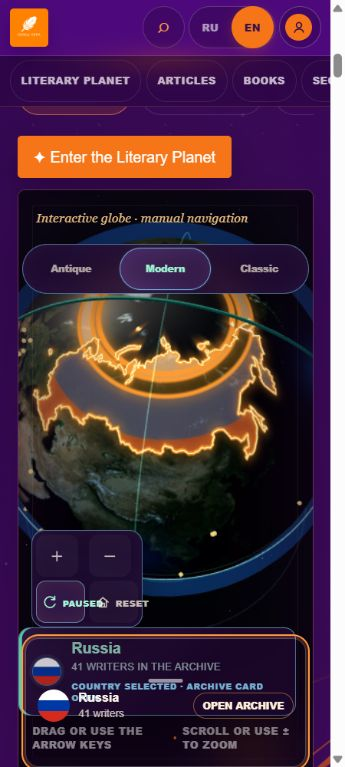
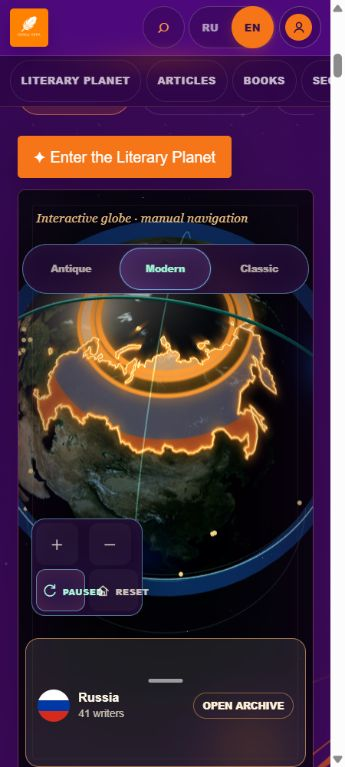
fix(globe): stabilize Stage 4 release gates

diff --git a/src/components/GlobeCameraRig.tsx b/src/components/GlobeCameraRig.tsx
@@ -129,7 +129,7 @@ type ActiveFlight = {
   token: number;
   source: GlobeProgrammaticCameraSource;
   intent: GlobeCameraFocusIntent;
-  startedAt: number;
+  startedAt: number | null;
   durationMs: number;
   trajectory: GlobeCameraTrajectory;
 };
@@ -410,7 +410,10 @@ export default function GlobeCameraRig({
         token: ++flightTokenRef.current,
         source: globeCameraMotionSourceForIntent(intent),
         intent,
-        startedAt: performance.now(),
+        // Start the clock on the first frame that can actually render the
+        // flight. A busy main thread must not consume the whole animation
+        // before the user has had a chance to interrupt it.
+        startedAt: null,
         durationMs,
         trajectory,
       };
@@ -622,7 +625,9 @@ export default function GlobeCameraRig({
 
     const flight = flightRef.current;
     if (flight) {
-      const elapsed = performance.now() - flight.startedAt;
+      const frameTime = performance.now();
+      if (flight.startedAt === null) flight.startedAt = frameTime;
+      const elapsed = frameTime - flight.startedAt;
       const progress = THREE.MathUtils.clamp(elapsed / flight.durationMs, 0, 1);
       const sample = sampleCameraTrajectory(flight.trajectory, progress);
       camera.up.set(0, 1, 0);
@@ -653,6 +658,11 @@ export default function GlobeCameraRig({
         performance.now() - settling.startedAt >= SETTLE_TIMEOUT_MS
       ) {
         settlingRef.current = null;
+        // OrbitControls retains a tiny spherical delta while damping is on.
+        // Flush that residue once before returning to demand rendering so an
+        // idle globe cannot keep invalidating frames indefinitely.
+        controls.enableDamping = false;
+        controls.update();
         syncRestingControls();
         emitViewSettled(settling.source);
       } else {

diff --git a/src/components/atlasBackgroundLayering.test.ts b/src/components/atlasBackgroundLayering.test.ts
@@ -3,6 +3,11 @@ import { describe, expect, it } from "vitest";
 
 const css = readFileSync(new URL("../index.css", import.meta.url), "utf8");
 
+function cssRule(selector: string) {
+  const escaped = selector.replace(/[.*+?^${}()|[\]\\]/g, "\\$&");
+  return css.match(new RegExp(`${escaped}\\s*\\{([^}]*)\\}`, "u"))?.[1] ?? "";
+}
+
 describe("literary planet background layering", () => {
   it("keeps the branded brush behind the isolated WebGL experience", () => {
     expect(css).toMatch(
@@ -22,5 +27,31 @@ describe("literary planet background layering", () => {
     expect(brushRule).toContain("height: clamp(220px, 24vw, 390px)");
     expect(brushRule).toContain("center bottom");
     expect(brushRule).not.toContain("inset: 0");
+  });
+
+  it("hides duplicate globe labels beneath the open mobile country sheet", () => {
+    const mobileSheetOcclusionRule = css.match(
+      /\.atlas-experience-surface\[data-atlas-panel-state="open"\] \.literary-globe \.globe-country-label,\s*\.atlas-experience-surface\[data-atlas-panel-state="open"\] \.literary-globe \.globe-instruction\s*\{([^}]*)\}/u
+    )?.[1] ?? "";
+
+    expect(mobileSheetOcclusionRule).toContain("display: none");
+  });
+
+  it("keeps touch and zoom controls clear of every mobile country-sheet state", () => {
+    const clearance = "max(24px, env(safe-area-inset-bottom))";
+
+    for (const state of ["collapsed", "half", "expanded"]) {
+      expect(
+        cssRule(
+          `.atlas-experience-surface[data-atlas-panel-state="open"][data-atlas-sheet-state="${state}"] .globe-touch-activation`
+        )
+      ).toContain(clearance);
+    }
+
+    expect(
+      cssRule(
+        '.atlas-experience-surface[data-atlas-panel-state="open"][data-atlas-sheet-state="collapsed"] .literary-globe .globe-controls'
+      )
+    ).toContain(clearance);
   });
 });

diff --git a/src/index.css b/src/index.css
@@ -18355,6 +18355,11 @@ html[data-theme="book"] .calendar-heading h3 {
     width: auto;
   }
 
+  .atlas-experience-surface[data-atlas-panel-state="open"] .literary-globe .globe-country-label,
+  .atlas-experience-surface[data-atlas-panel-state="open"] .literary-globe .globe-instruction {
+    display: none;
+  }
+
   .literary-globe .globe-nobel-status {
     top: 116px;
     right: 14px;
@@ -18374,17 +18379,17 @@ html[data-theme="book"] .calendar-heading h3 {
 
   .atlas-experience-surface[data-atlas-panel-state="open"][data-atlas-sheet-state="collapsed"] .globe-touch-activation {
     z-index: 44;
-    bottom: calc(142px + max(12px, env(safe-area-inset-bottom)));
+    bottom: calc(142px + max(24px, env(safe-area-inset-bottom)));
   }
 
   .atlas-experience-surface[data-atlas-panel-state="open"][data-atlas-sheet-state="half"] .globe-touch-activation {
     z-index: 44;
-    bottom: calc(min(46dvh, 460px) + max(12px, env(safe-area-inset-bottom)));
+    bottom: calc(min(46dvh, 460px) + max(24px, env(safe-area-inset-bottom)));
   }
 
   .atlas-experience-surface[data-atlas-panel-state="open"][data-atlas-sheet-state="expanded"] .globe-touch-activation {
     z-index: 44;
-    bottom: calc(min(70dvh, 660px) + max(12px, env(safe-area-inset-bottom)));
+    bottom: calc(min(70dvh, 660px) + max(24px, env(safe-area-inset-bottom)));
   }
 
   .atlas-experience-surface .atlas-country-sheet-toggle {
@@ -18543,7 +18548,7 @@ html[data-theme="book"] .calendar-heading h3 {
 
 @media (max-width: 680px) {
   .atlas-experience-surface[data-atlas-panel-state="open"][data-atlas-sheet-state="collapsed"] .literary-globe .globe-controls {
-    bottom: calc(142px + max(12px, env(safe-area-inset-bottom)));
+    bottom: calc(142px + max(24px, env(safe-area-inset-bottom)));
   }
 }
 

diff --git a/src/components/GlobeCameraRig.test.tsx b/src/components/GlobeCameraRig.test.tsx
@@ -167,6 +167,26 @@ describe("GlobeCameraRig contract", () => {
     expect(source).toContain("enabled={active && interactionEnabled}");
   });
 
+  it("starts flight time on its first rendered frame and clears damping residue", () => {
+    const source = readFileSync(
+      new URL("./GlobeCameraRig.tsx", import.meta.url),
+      "utf8"
+    );
+
+    expect(source).toContain("startedAt: null");
+    expect(source).toContain(
+      "if (flight.startedAt === null) flight.startedAt = frameTime"
+    );
+    const settlingLoop = source.slice(
+      source.indexOf("const settling ="),
+      source.indexOf("if (controls.autoRotate) invalidate()")
+    );
+    expect(settlingLoop).toContain("controls.enableDamping = false");
+    expect(settlingLoop.indexOf("controls.enableDamping = false")).toBeLessThan(
+      settlingLoop.indexOf("syncRestingControls();")
+    );
+  });
+
   it("issues one atomic country intent per selection, including same-country refocus", () => {
     const appSource = readFileSync(new URL("../App.tsx", import.meta.url), "utf8");
     const selectCountrySource = appSource.slice(

diff --git a/reports/stage4-premium-globe-exploration-pr.md b/reports/stage4-premium-globe-exploration-pr.md
@@ -1,6 +1,6 @@
 # feat(globe): complete premium Literary Planet exploration
 
-> Stage 4 implementation is complete in source. Frozen V11 targeted, performance, visual and local E2E evidence is recorded below. One pre-existing Windows-only CRLF unit failure requires confirmation by green Linux CI before merge. Automatic merge is forbidden.
+> Stage 4 implementation is complete in source. Frozen V11 visual evidence and the final post-CI-fix targeted, performance and local E2E evidence are recorded below. One pre-existing Windows-only CRLF unit failure requires confirmation by green Linux CI before merge. Automatic merge is forbidden.
 
 ## 1. Summary
 
@@ -38,7 +38,7 @@ Existing Stage 3 identity/history suites remain present and the Stage 4 runtime 
 
 The implementation addresses the measured work categories rather than lowering normal visual quality: duplicate surface raycast, dynamic highlight mipmaps/uploads, mass flag preload, synchronous focus-metric work, perpetual idle frames and duplicate renderer sizing.
 
-Frozen V11 measurements: production artifact `114,079,071 / 114,819,072` bytes (headroom `740,001`); excluding book covers `74,503,905 / 75,497,472` (headroom `993,567`); `4323` production files. Runtime probes recorded passive texture uploads `0`, offscreen frames `0` and an Auto OFF frame-counter plateau. Retina DPR `1.5` retained the full 4096×2048 texture tier; compact mobile selected the dedicated 2048×1024 tier.
+Final post-CI-fix measurements: production artifact `114,079,331 / 114,819,072` bytes (headroom `739,741`); excluding book covers `74,504,165 / 75,497,472` (headroom `993,307`); `4323` production files. Runtime probes recorded passive texture uploads `0`, offscreen frames `0` and an Auto OFF frame-counter plateau. Retina DPR `1.5` retained the full 4096×2048 texture tier; compact mobile selected the dedicated 2048×1024 tier.
 
 ## 6. Camera architecture
 
@@ -216,37 +216,41 @@ Normal mode keeps configured DPR, high-detail sphere, static texture mipmaps/ani
 | Auto OFF idle | perpetual frames | `demand` | policy unit + E2E |
 | Resize / Canvas count | competing resize risk | one R3F owner / one Canvas | source + identity E2E |
 | Mobile/Retina texture runtime | single quality statement unavailable | mobile 2048×1024 tier; Retina DPR `1.5` full 4096×2048 tier; economical flag did not replace normal inspected quality | runtime probe + visual registry |
-| Production artifact / main JS / CSS / globe chunk | Stage 3 artifact audit `114,028,640` bytes | `114,079,071 / 114,819,072` total; main `629,468`, CSS `324,101`, globe `92,442` bytes | frozen V11 build + performance audit |
+| Production artifact / main JS / CSS / globe chunk | Stage 3 artifact audit `114,028,640` bytes | `114,079,331 / 114,819,072` total; main `629,468`, CSS `324,296`, globe `92,507` bytes | final post-CI-fix build + performance audit |
 
-Frozen V11 performance details:
+Final post-CI-fix performance details:
 
-- total: `114,079,071 / 114,819,072` bytes; headroom `740,001`;
-- excluding book covers: `74,503,905 / 75,497,472` bytes; headroom `993,567`;
+- total: `114,079,331 / 114,819,072` bytes; headroom `739,741`;
+- excluding book covers: `74,504,165 / 75,497,472` bytes; headroom `993,307`;
 - production file count: `4323`;
 - passive texture uploads: `0`; offscreen frames: `0`; Auto OFF: frame-counter plateau;
[6 lines of base64/hex data omitted]
+
+Focused SVG/flag QA: 360×800 and 390×844 across antique/earth/modern retained exactly one Canvas and one rendered style; Japan outlines, markers and control SVGs stayed crisp; the mobile sheet no longer exposed duplicate country labels/instructions. Clean selection requested only `jp.svg`; deliberate hover added only `kp.svg`; all `204/204` local flag SVG assets responded successfully; browser warnings/errors `0`.
 
 ## 34. Tests
 
 | Проверка | Evidence in tree | Final result |
 |---|---|---|
 | TypeScript / lint | project scripts | **PASS — public `tsc` and admin `tsc`; interface catalog 1130 entries; i18n 916 phrases / 55 surfaces / 5 approved exceptions** |
-| Camera/focus/projection | `GlobeCameraRig`, focus math, projection tests | **PASS — included in targeted aggregate: 19 files / 118 tests** |
-| Keyboard/touch/view | observer, keyboard and activation tests | **PASS — included in targeted aggregate: 19 files / 118 tests** |
-| Performance/highlight/style | performance, atlas, highlight and style tests | **PASS — included in targeted aggregate: 19 files / 118 tests** |
-| Nobel/writer/coordinates/Random | dedicated unit/accessibility tests | **PASS — included in targeted aggregate: 19 files / 118 tests** |
-| Full Vitest | `npm test` | **LOCAL WINDOWS LIMITATION — 258 files passed / 2 skipped / 1 failed; 1359 tests passed / 2 skipped / 1 failed.** Sole failure: pre-existing CRLF-sensitive `scripts/database/atomic-article-bundle.test.mjs`; tracked migration/test unchanged; green Linux CI required before merge. |
+| Camera/focus/projection | `GlobeCameraRig`, focus math, projection tests | **PASS — included in targeted aggregate: 19 files / 121 tests** |
+| Keyboard/touch/view | observer, keyboard and activation tests | **PASS — included in targeted aggregate: 19 files / 121 tests** |
+| Performance/highlight/style | performance, atlas, highlight and style tests | **PASS — included in targeted aggregate: 19 files / 121 tests** |
+| Nobel/writer/coordinates/Random | dedicated unit/accessibility tests | **PASS — included in targeted aggregate: 19 files / 121 tests** |
+| Full Vitest | `npm test -- --maxWorkers=2` | **LOCAL WINDOWS LIMITATION — 258 files passed / 2 skipped / 1 failed; 1362 tests passed / 2 skipped / 1 failed.** Sole failure: pre-existing CRLF-sensitive `scripts/database/atomic-article-bundle.test.mjs`; tracked migration/test unchanged; green Linux CI required before merge. |
 | Premium E2E | `tests/e2e/premium-globe-exploration.spec.mjs` | **PASS — 22/22** |
-| Existing globe/Stage 3 regressions | globe-runtime, responsive, immersion suites | **PASS — 39 passed / 9 intentional skips** |
-| Full E2E | Playwright full suite | **PASS — 126 passed / 18 intentional skips / 0 failed; 2 workers; 6.8 min** |
+| Existing globe/Stage 3 regressions | globe-runtime, responsive, immersion suites | **PASS — 31 passed / 9 intentional skips** |
+| Full E2E | Playwright full suite | **PASS — 126 passed / 18 intentional skips / 0 failed; 2 workers; 6.4 min** |
 | Globe assets | `npm run assets:globe:qa` | **PASS — full 4096×2048 and mobile 2048×1024 texture tiers for antique/earth/modern RU/EN assets** |
-| Performance | `npm run performance:audit` | **PASS — 114,079,071 / 114,819,072 bytes, headroom 740,001; excluding covers 74,503,905 / 75,497,472, headroom 993,567; 4323 files** |
+| Performance | `npm run performance:audit` | **PASS — 114,079,331 / 114,819,072 bytes, headroom 739,741; excluding covers 74,504,165 / 75,497,472, headroom 993,307; 4323 files** |
 | Domain/build/SEO | `npm run build:domain`, domain/SEO audits | **PASS — domain 11319/11319; SEO 5262 ready; 161 pages; 2097 redirects; sitemap 172 URLs; visual runtime console errors 0.** The aggregate Windows release check retains only the documented CRLF-sensitive Vitest failure; Linux CI is required before merge. |
-| Diff hygiene | full-tree `git diff --check` | **PASS — final staged tree, exit 0; no whitespace errors.** |
+| Diff hygiene | full-tree `git diff --check` | **PASS — final working tree, exit 0; cached-tree verification is repeated immediately before commit.** |
 
 No Stage 4 test uses `.only`; the premium suite contains no `.skip`. Existing viewport-specific skips remain intentional in pre-existing Stage 3 suites and are not introduced to hide Stage 4 coverage. Assertions and performance ceilings are not weakened.
+
+The Quality workflow now uses the Playwright and axe versions frozen by `package-lock.json` instead of downgrading them inline, and its overall job ceiling is `30` minutes so the expanded 144-case browser matrix and failure diagnostics can finish. Worker count, per-test timeout, retries and assertions are unchanged.
 
 The single local Vitest failure is not a Stage 4 regression: on Windows, `scripts/database/atomic-article-bundle.test.mjs` compares CRLF-sensitive fixture text. The tracked migration and test were not changed by Stage 4. This exception is documented, not waived; green Linux CI remains a mandatory merge gate.
 
@@ -274,8 +278,8 @@ Owner-locked and intentionally untouched: `HEADER-001`, `HEADER-002`, `HERO-001`
 
 Required matrix: `320×800`, `360×800`, `390×844`, `430×932`, `768×1024`, `1024×768`, `1280×800`, `1366×700`, `1366×768`, `1440×900`, `1920×1080`; representative RU/EN; Старинный/Современный/Классический; near/medium/far/opposite/high-latitude/microstate; cancel/latest-wins/Home/writer/Random; keyboard/touch/sheet; reduced motion/forced colors/200% zoom/weak mobile.
 
[1 lines of base64/hex data omitted]
-- Motion/touch registry: runtime probes PASS with passive uploads `0`, offscreen frames `0` and Auto OFF plateau; premium E2E `22/22`, full E2E `126 passed / 18 intentional skips / 0 failed`, regression subset `39 passed / 9 intentional skips`.
[1 lines of base64/hex data omitted]
+- Motion/touch registry: runtime probes PASS with passive uploads `0`, offscreen frames `0` and Auto OFF plateau; premium E2E `22/22`, full E2E `126 passed / 18 intentional skips / 0 failed`, regression subset `31 passed / 9 intentional skips`.
 - Owner-lock comparison: no separate pixel-baseline series was produced in this V11 pass; owner-locked Header/Hero remained visibly present across the 16 captures and still require human PR diff review.
 
 ## 37. Future Atlas Expansion

diff --git a/docs/GLOBE_EXPLORATION_UX.md b/docs/GLOBE_EXPLORATION_UX.md
@@ -11,7 +11,7 @@
 | Base `main` | `6e4380582ecc47cd82eb428148fb6a90fdcc3d70` |
 | Merged Stage 3 | `546fb441e9929a54de5dd87b1f63e133871af8df` (PR #83) |
 | Implementation | **COMPLETE IN SOURCE** |
-| Final QA | **LOCAL V11 QA COMPLETE WITH ONE KNOWN PLATFORM LIMITATION:** public/admin TypeScript PASS; targeted Stage 4 units `19 files / 118 tests` PASS; premium E2E `22/22` PASS; full E2E `126 passed / 18 intentional skips / 0 failed`; performance and visual registries PASS. Full Vitest has one pre-existing Windows-only CRLF failure described below; green Linux CI is required before merge. |
+| Final QA | **LOCAL FINAL QA COMPLETE WITH ONE KNOWN PLATFORM LIMITATION:** public/admin TypeScript PASS; targeted Stage 4 units `19 files / 121 tests` PASS; premium E2E `22/22` PASS; full E2E `126 passed / 18 intentional skips / 0 failed`; final post-CI-fix performance and frozen V11 visual registries PASS. Full Vitest has one pre-existing Windows-only CRLF failure described below; green Linux CI is required before merge. |
 | Merge | Только ручной merge после review; automatic merge запрещён |
 | Next stage | Stage 5 и Future Atlas Expansion автоматически не начинать |
 
@@ -251,23 +251,26 @@ Final run registry:
 | Gate | Final result |
 |---|---|
 | TypeScript / lint | **PASS — public `tsc` and admin `tsc`; interface catalog 1130 entries; i18n 916 phrases / 55 surfaces / 5 approved exceptions** |
-| Targeted Stage 4 unit/component | **PASS — 19 files / 118 tests** |
-| Full unit/component | **LOCAL WINDOWS LIMITATION — 258 files passed / 2 skipped / 1 failed; 1359 tests passed / 2 skipped / 1 failed.** The sole failure is the pre-existing CRLF-sensitive `scripts/database/atomic-article-bundle.test.mjs`; the tracked migration/test is unchanged. Green Linux CI is required before merge. |
-| Premium + regression E2E | **PASS — premium 22/22; full suite 126 passed / 18 intentional skips / 0 failed, 2 workers, 6.8 min; regression subset 39 passed / 9 intentional skips** |
+| Targeted Stage 4 unit/component | **PASS — 19 files / 121 tests** |
+| Full unit/component | **LOCAL WINDOWS LIMITATION — 258 files passed / 2 skipped / 1 failed; 1362 tests passed / 2 skipped / 1 failed.** The sole failure is the pre-existing CRLF-sensitive `scripts/database/atomic-article-bundle.test.mjs`; the tracked migration/test is unchanged. Green Linux CI is required before merge. |
+| Premium + regression E2E | **PASS — premium 22/22; full suite 126 passed / 18 intentional skips / 0 failed, 2 workers, 6.4 min; regression subset 31 passed / 9 intentional skips** |
 | Globe asset QA | **PASS — full textures 4096×2048 and mobile textures 2048×1024 for the antique/earth/modern RU/EN set** |
 | Production/domain/release gates | **Build/domain/SEO subgates PASS — domain 11319/11319; SEO 5262 ready; 161 pages; 2097 redirects; sitemap 172 URLs; visual runtime console errors 0.** The aggregate Windows release check retains only the documented CRLF-sensitive Vitest failure; Linux CI is required before merge. |
-| Performance/artifact budget | **PASS — 114,079,071 / 114,819,072 bytes, headroom 740,001; excluding covers 74,503,905 / 75,497,472, headroom 993,567; 4323 files** |
-| Full-tree `git diff --check` | **PASS — final staged tree, exit 0; no whitespace errors.** |
+| Performance/artifact budget | **PASS — 114,079,331 / 114,819,072 bytes, headroom 739,741; excluding covers 74,504,165 / 75,497,472, headroom 993,307; 4323 files** |
+| Full-tree `git diff --check` | **PASS — final working tree, exit 0; cached-tree verification is repeated immediately before commit.** |
 | Head SHA | The final PR head is pinned by the PR/CI after the documentation commit; a commit cannot truthfully embed its own SHA. |
+
+CI fidelity: the Quality workflow installs the browser binary for the Playwright version already frozen by `package-lock.json`; it no longer performs an inline package downgrade. The overall job ceiling is `30` minutes for the expanded 144-case browser matrix, while worker count, per-test timeout, retries and assertions remain unchanged.
 
 ## Visual, motion и performance evidence
 
 Required visual/motion matrix остаётся: `320×800`, `360×800`, `390×844`, `430×932`, `768×1024`, `1024×768`, `1280×800`, `1366×700`, `1366×768`, `1440×900`, `1920×1080`; representative RU/EN; три styles; near/medium/far/opposite/high-latitude/microstate; cancel/latest-wins/Home/writer/Random; compact sheet; reduced motion, forced colors, 200% zoom и weak-mobile/economical profile.
 
[1 lines of base64/hex data omitted]
-- Motion/runtime evidence: passive texture uploads `0`, offscreen frames `0`, Auto OFF frame counter plateau; premium E2E `22/22`, full E2E `126 passed / 18 intentional skips / 0 failed`, regression subset `39 passed / 9 intentional skips`.
-- Premium performance: total artifact `114,079,071 / 114,819,072` bytes (headroom `740,001`), excluding covers `74,503,905 / 75,497,472` (headroom `993,567`), `4323` files. Retina DPR `1.5` retained the full 4096×2048 tier; compact mobile used the dedicated 2048×1024 tier.
[2 lines of base64/hex data omitted]
+- SVG/flag focused evidence: **PASS — 360×800 and 390×844, antique/earth/modern**; exactly one Canvas and one rendered style, crisp Japan outline/marker/control SVGs, mobile country-sheet duplication absent, and on-demand flags limited to the selected/hovered countries (`jp.svg`, then `kp.svg` on deliberate hover). All `204/204` local flag SVG assets respond successfully; console warnings/errors: `0`.
+- Motion/runtime evidence: passive texture uploads `0`, offscreen frames `0`, Auto OFF frame counter plateau; premium E2E `22/22`, full E2E `126 passed / 18 intentional skips / 0 failed`, regression subset `31 passed / 9 intentional skips`.
+- Premium performance: total artifact `114,079,331 / 114,819,072` bytes (headroom `739,741`), excluding covers `74,504,165 / 75,497,472` (headroom `993,307`), `4323` files. Retina DPR `1.5` retained the full 4096×2048 tier; compact mobile used the dedicated 2048×1024 tier.
[1 lines of base64/hex data omitted]
 
 ## Вне scope и review policy
 

diff --git a/reports/stage4-visual-evidence/README.md b/reports/stage4-visual-evidence/README.md
@@ -7,6 +7,8 @@ Result: **PASS — no remaining P0/P1 issue was found in the inspected states af
 
 This folder is a visual record of the current V11 domain build. The stale preview that had previously occupied port `4173` was not used: it resolved the HTML but served the wrong Vite base and returned `404` for root assets.
 
+Selective refresh: `en-360x800-embedded-modern-country-collapsed.png` was recaptured on 2026-08-23 from the current root preview at `http://127.0.0.1:4173/` after the mobile selected-country layering correction, using `assets/index-CakQm7Rv.js` and `assets/index-Cvad-RPW.css`. The build-identity table below remains the provenance record for the original 16-state V11 sweep.
+
 ## Build identity
 
 | Artifact | SHA-256 |
@@ -23,7 +25,7 @@ The requested dimensions are the page's exact `window.innerWidth × window.inner
 | Screenshot | Requested viewport | PNG raster | Language | Mode | Public style | State inspected | Result | SHA-256 |
 | --- | ---: | ---: | --- | --- | --- | --- | --- | --- |
[6 lines of base64/hex data omitted]
@@ -66,7 +68,7 @@ No source change is required for the inspected sharpness concern.
 
 | Viewport | Runtime tier and backing data | Visual result |
 | --- | --- | --- |
-| 360×800 | Compact texture tier by viewport width; `earth-blue-marble-mobile.webp` is 2048×1024; Canvas backing buffer observed at 307×610 with DPR ≈ 1; `data-atlas-economical=false`. | No pixel breakup, stair-stepping or blurred SVG edges. The photographic Blue Marble texture is intentionally softer/darker than vector labels at this small globe size, but is not under-resolved. Controls and outlines are crisp. |
+| 360×800 | Compact texture tier by viewport width; `earth-blue-marble-mobile.webp` is 2048×1024; Canvas CSS surface observed at 307×610 with a 384×762 backing buffer (DPR ≈ 1.25); `data-atlas-economical=false`. | No pixel breakup, stair-stepping or blurred SVG edges. The photographic Blue Marble texture is intentionally softer/darker than vector labels at this small globe size, but is not under-resolved. Controls, outlines and the loaded `ru.svg` flag remain crisp. |
 | 1366×768 | Desktop 4096×2048 texture; Canvas backing buffer 1240×720 with DPR ≈ 1; `data-atlas-economical=false`. | Map labels, country outline, Thomas Mann portrait, activated writer marker and SVG controls remain sharp at native capture scale. |
 | 1920×1080 | Desktop 4096×2048 texture; Canvas backing buffer 1920×1080 with DPR ≈ 1; `data-atlas-economical=false`. | Globe texture, visible microstate/Nobel symbols, medallions, status chips and rails remain sharp. The 760×760 Nobel detail crop shows no pixel breakup. |
 
@@ -92,6 +94,7 @@ The compact tier is a deliberate bandwidth tier, not the economical renderer. Th
 - The orange brush and orbit line render at the lower exposition boundary and behind the interactive globe surface; neither covers the globe or its controls in the inspected embedded states.
 - The compact filter family stays on a deliberate internal horizontal rail. “Крупнейшие архивы” opens as a distinct, readable disclosure instead of mixing its country entries into the primary metrics row.
 - The selected-country panel/drawer is contained at mobile, tablet and desktop sizes. It neither displaces immersive chrome nor creates document-level horizontal overflow.
+- In the refreshed EN 360×800 collapsed-country state there is exactly one Three.js Canvas; the underlying `.globe-country-label` and `.globe-instruction` both compute to `display: none`, the visible control SVGs retain 24×24 viewBoxes, `ru.svg` loads as `image/svg+xml` with HTTP 200, and the country sheet starts 23.2 px below the globe controls.
 - Writer, Nobel and country-marker treatments remain visually distinguishable against all three inspected globe styles.
 - No browser console warning or error was recorded after completing the matrix.
 

diff --git a/reports/ui-ux-audit.md b/reports/ui-ux-audit.md
@@ -170,6 +170,7 @@
 
 - Source/unit: camera rig/focus/projection, view observer/keyboard/touch, frame/idle/highlight/style, coordinates/Random/Nobel и writer/accessibility contracts.
 - Runtime: `tests/e2e/premium-globe-exploration.spec.mjs` плюс существующие globe runtime и Stage 3 immersion regressions.
+- SVG/flags: focused 360×800 and 390×844 QA across all three styles confirms one Canvas, crisp outlines/markers/control SVGs, on-demand-only flags and no duplicate country label/instruction beneath the open mobile sheet.
 - Полное описание evidence: [`docs/GLOBE_EXPLORATION_UX.md`](../docs/GLOBE_EXPLORATION_UX.md) и [`reports/stage4-premium-globe-exploration-pr.md`](stage4-premium-globe-exploration-pr.md).
 - Финальные численные QA counts, performance measurements и artifact registry зафиксированы в PR report и являются обязательным release-gate evidence; исторический текст findings при этом сохранён.
 
